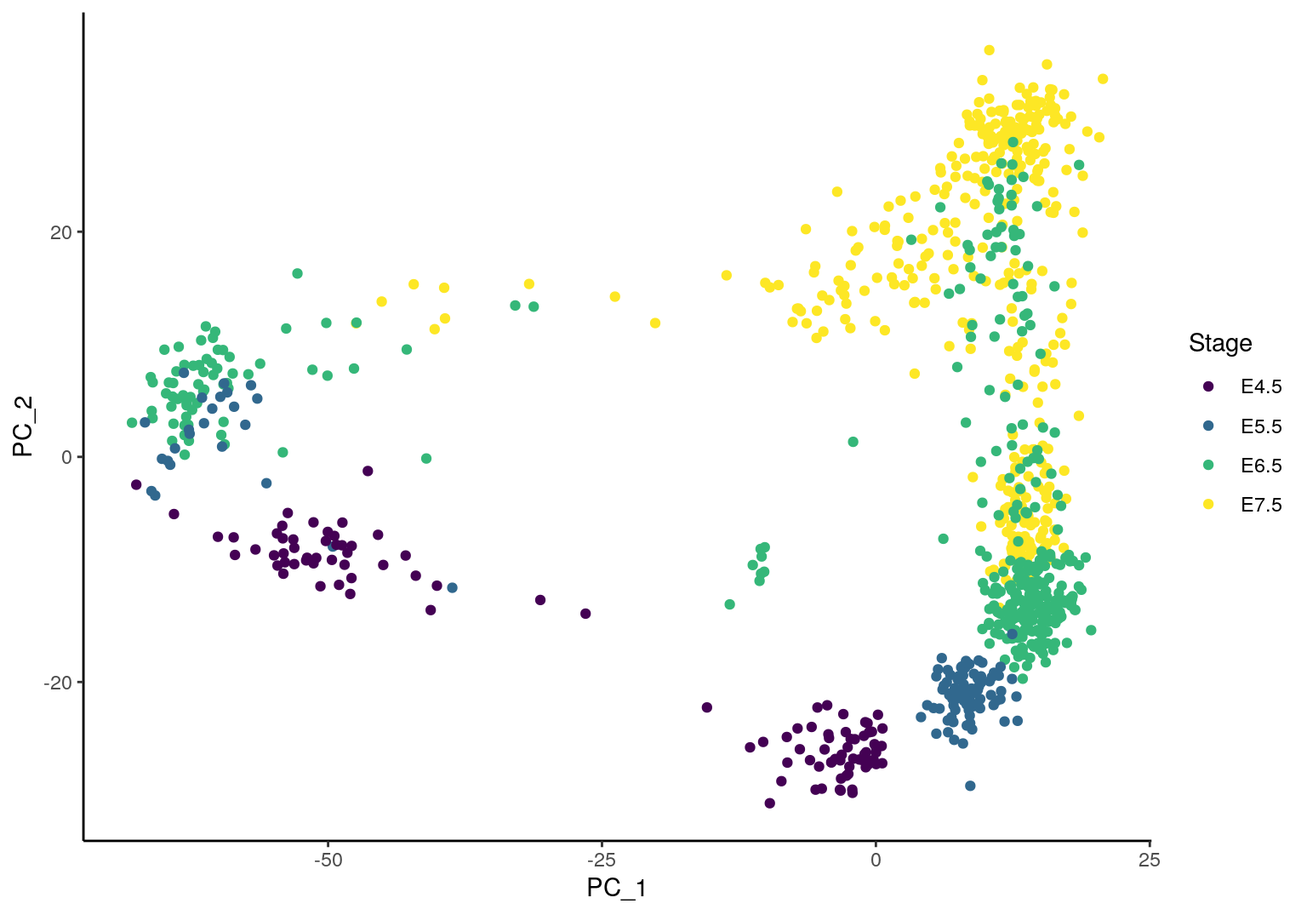
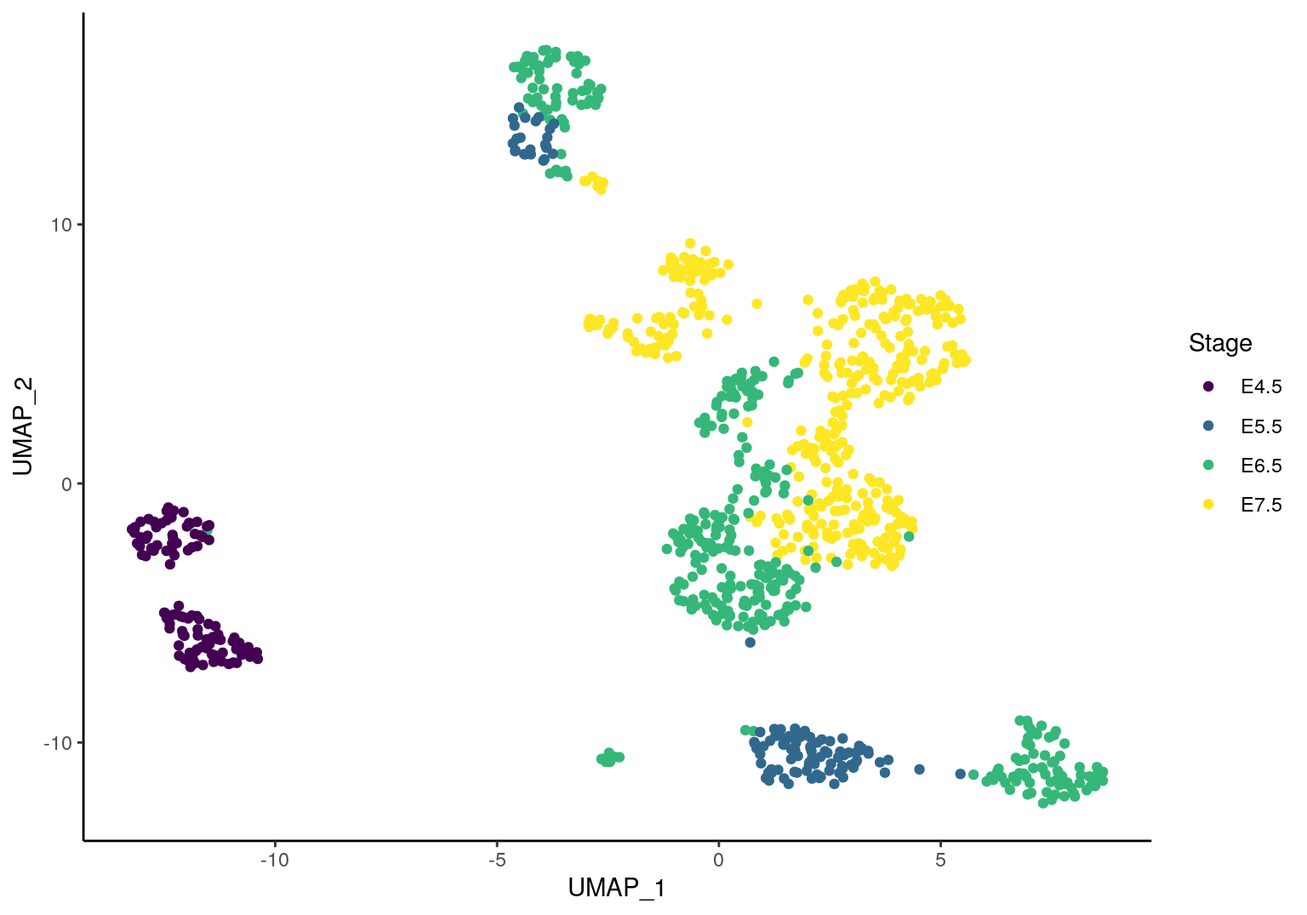
Deploying to gh-pages from  @ 05b11ada396dbc1e696d8c17546377e41f97edd3 🚀

diff --git a/articles/index.html b/articles/index.html
@@ -276,28 +276,25 @@
 <span class="no">stages</span> <span class="kw">&lt;-</span> <span class="fu"><a href="https://rdrr.io/r/base/c.html">c</a></span>(<span class="st">"E4.5"</span>, <span class="st">"E5.5"</span>, <span class="st">"E6.5"</span>, <span class="st">"E7.5"</span>)
 <span class="co"># col_palette &lt;- dput(viridisLite::viridis(n = length(stages)))</span>
 <span class="no">col_palette</span> <span class="kw">&lt;-</span> <span class="fu"><a href="https://rdrr.io/r/base/c.html">c</a></span>(<span class="st">"#440154FF"</span>, <span class="st">"#31688EFF"</span>, <span class="st">"#35B779FF"</span>, <span class="st">"#FDE725FF"</span>)
-<span class="fu"><a href="https://rdrr.io/r/base/names.html">names</a></span>(<span class="no">col_palette</span>) <span class="kw">&lt;-</span> <span class="no">stages</span></pre></body></html></div>
-<div class="sourceCode" id="cb11"><html><body><pre class="r"><span class="co">## helper function to create UMAP plots coloured by stage</span>
-<span class="no">plot_reducedDims</span> <span class="kw">&lt;-</span> <span class="kw">function</span>(<span class="no">sce</span>, <span class="no">reducedDim</span> <span class="kw">=</span> <span class="st">'UMAP'</span>,
-                             <span class="no">dims</span> <span class="kw">=</span> <span class="fu"><a href="https://rdrr.io/r/base/c.html">c</a></span>(<span class="fl">1</span>,<span class="fl">2</span>), <span class="no">col_palette</span>) {
-  <span class="no">comps.prefix</span> <span class="kw">&lt;-</span> <span class="fu"><a href="https://rdrr.io/r/base/ifelse.html">ifelse</a></span>(<span class="no">reducedDim</span> <span class="kw">==</span> <span class="st">'UMAP'</span>, <span class="st">'UMAP_'</span>, <span class="st">'PC_'</span>)
-  <span class="no">df</span> <span class="kw">&lt;-</span> <span class="fu"><a href="https://rdrr.io/r/base/data.frame.html">data.frame</a></span>(<span class="fu">reducedDim</span>(<span class="no">sce</span>, <span class="no">reducedDim</span>))[,<span class="no">dims</span>]
-  <span class="no">axes</span> <span class="kw">&lt;-</span> <span class="fu"><a href="https://rdrr.io/r/base/colnames.html">colnames</a></span>(<span class="no">df</span>) <span class="kw">&lt;-</span> <span class="fu"><a href="https://rdrr.io/r/base/paste.html">paste0</a></span>(<span class="no">comps.prefix</span>, <span class="no">dims</span>)
-  <span class="no">df</span>$<span class="no">stage</span> <span class="kw">&lt;-</span> <span class="no">sce</span>$<span class="no">stage</span>
+<span class="fu"><a href="https://rdrr.io/r/base/names.html">names</a></span>(<span class="no">col_palette</span>) <span class="kw">&lt;-</span> <span class="no">stages</span>
+
+<span class="co">## helper function to create UMAP plots coloured by stage</span>
+<span class="no">plot_umap_by_stage</span> <span class="kw">&lt;-</span> <span class="kw">function</span>(<span class="no">df</span>, <span class="no">dims</span> <span class="kw">=</span> <span class="fu"><a href="https://rdrr.io/r/base/c.html">c</a></span>(<span class="fl">1</span>,<span class="fl">2</span>)) {
+  <span class="no">axes</span> <span class="kw">&lt;-</span> <span class="fu"><a href="https://rdrr.io/r/base/paste.html">paste0</a></span>(<span class="st">'UMAP_'</span>, <span class="no">dims</span>)
   <span class="fu"><a href="https://ggplot2.tidyverse.org/reference/ggplot.html">ggplot</a></span>(<span class="no">df</span>, <span class="fu"><a href="https://ggplot2.tidyverse.org/reference/aes_.html">aes_string</a></span>(<span class="no">axes</span>[<span class="fl">1</span>], <span class="no">axes</span>[<span class="fl">2</span>])) + <span class="fu"><a href="https://ggplot2.tidyverse.org/reference/geom_point.html">geom_point</a></span>(<span class="fu"><a href="https://ggplot2.tidyverse.org/reference/aes.html">aes</a></span>(<span class="kw">col</span><span class="kw">=</span><span class="no">stage</span>)) +
     <span class="fu"><a href="https://ggplot2.tidyverse.org/reference/ggtheme.html">theme_classic</a></span>()+ <span class="fu"><a href="https://ggplot2.tidyverse.org/reference/scale_manual.html">scale_color_manual</a></span>(<span class="kw">values</span> <span class="kw">=</span> <span class="no">col_palette</span>) + <span class="fu"><a href="https://ggplot2.tidyverse.org/reference/labs.html">labs</a></span>(<span class="kw">col</span> <span class="kw">=</span> <span class="st">'Stage'</span>)
 }</pre></body></html></div>
-<div id="dimension-reduction-all-of-rna-cells" class="section level2">
+<div id="umap-projection-all-of-rna-cells" class="section level2">
 <h2 class="hasAnchor">
-<a href="#dimension-reduction-all-of-rna-cells" class="anchor"></a>Dimension reduction all of RNA cells</h2>
+<a href="#umap-projection-all-of-rna-cells" class="anchor"></a>UMAP projection all of RNA cells</h2>
 <p>Select highly variable genes after accounting for technical variation:</p>
-<div class="sourceCode" id="cb12"><html><body><pre class="r"><span class="no">decomp</span> <span class="kw">&lt;-</span> <span class="fu"><a href="https://rdrr.io/pkg/scran/man/modelGeneVar.html">modelGeneVar</a></span>(<span class="no">rna.sce</span>)
+<div class="sourceCode" id="cb11"><html><body><pre class="r"><span class="no">decomp</span> <span class="kw">&lt;-</span> <span class="fu"><a href="https://rdrr.io/pkg/scran/man/modelGeneVar.html">modelGeneVar</a></span>(<span class="no">rna.sce</span>)
 <span class="co">## filter by mean expression and significance of biological variation signal</span>
 <span class="no">hvgs</span> <span class="kw">&lt;-</span> <span class="fu"><a href="https://rdrr.io/r/base/colnames.html">rownames</a></span>(<span class="no">decomp</span>)[<span class="no">decomp</span>$<span class="no">p.value</span><span class="kw">&lt;</span><span class="fl">0.01</span> <span class="kw">&amp;</span> <span class="no">decomp</span>$<span class="no">mean</span> <span class="kw">&gt;</span> <span class="fl">0.01</span>]
 <span class="fu"><a href="https://rdrr.io/r/base/length.html">length</a></span>(<span class="no">hvgs</span>)
 <span class="co">#&gt; [1] 381</span></pre></body></html></div>
 <p>Run PCA and then UMAP using PCs:</p>
-<div class="sourceCode" id="cb13"><html><body><pre class="r"><span class="no">npcs</span> <span class="kw">&lt;-</span> <span class="fl">15</span>
+<div class="sourceCode" id="cb12"><html><body><pre class="r"><span class="no">npcs</span> <span class="kw">&lt;-</span> <span class="fl">15</span>
 <span class="co">## PCA first: retrieve npcs PCs</span>
 <span class="no">rna.sce</span> <span class="kw">&lt;-</span> <span class="fu"><a href="https://rdrr.io/pkg/scater/man/runPCA.html">runPCA</a></span>(<span class="no">rna.sce</span>,  <span class="kw">ncomponents</span> <span class="kw">=</span> <span class="no">npcs</span>, <span class="kw">subset_row</span><span class="kw">=</span><span class="no">hvgs</span>, <span class="kw">name</span> <span class="kw">=</span> <span class="st">'PCA'</span>)
 
@@ -311,34 +308,27 @@
                    <span class="kw">ncomponents</span> <span class="kw">=</span> <span class="no">params</span>$<span class="no">umap_params</span>[<span class="st">'n_components'</span>],
                    <span class="kw">n_neighbors</span> <span class="kw">=</span> <span class="no">params</span>$<span class="no">umap_params</span>[<span class="st">'n_neighbors'</span>],
                    <span class="kw">min_dist</span> <span class="kw">=</span> <span class="no">params</span>$<span class="no">umap_params</span>[<span class="st">'min_dist'</span>])</pre></body></html></div>
-<div id="pca" class="section level3">
-<h3 class="hasAnchor">
-<a href="#pca" class="anchor"></a>PCA</h3>
+<p>data.frame of embeddings with cell metadata:</p>
+<div class="sourceCode" id="cb13"><html><body><pre class="r"><span class="co"># data.frame of embeddings with cell metadata</span>
+<span class="no">df</span> <span class="kw">&lt;-</span>  <span class="fu"><a href="https://rdrr.io/r/base/data.frame.html">data.frame</a></span>(<span class="fu">reducedDim</span>(<span class="no">rna.sce</span>,<span class="st">"UMAP"</span>))
+<span class="fu"><a href="https://rdrr.io/r/base/colnames.html">colnames</a></span>(<span class="no">df</span>) <span class="kw">&lt;-</span> <span class="fu"><a href="https://rdrr.io/r/base/paste.html">paste0</a></span>(<span class="st">'UMAP_'</span>, <span class="fu"><a href="https://rdrr.io/r/base/seq.html">seq_along</a></span>(<span class="no">df</span>))
+<span class="no">df</span> <span class="kw">&lt;-</span> <span class="fu"><a href="https://rdrr.io/r/base/cbind.html">cbind</a></span>(<span class="no">df</span>, <span class="fu">colData</span>(<span class="no">rna.sce</span>))</pre></body></html></div>
 <p>Plot the first two UMAP components:</p>
-<div class="sourceCode" id="cb14"><html><body><pre class="r"><span class="fu">plot_reducedDims</span>(<span class="kw">sce</span> <span class="kw">=</span> <span class="no">rna.sce</span>, <span class="kw">reducedDim</span> <span class="kw">=</span> <span class="st">'PCA'</span>, <span class="kw">dims</span> <span class="kw">=</span> <span class="fu"><a href="https://rdrr.io/r/base/c.html">c</a></span>(<span class="fl">1</span>,<span class="fl">2</span>), <span class="kw">col_palette</span> <span class="kw">=</span> <span class="no">col_palette</span>)</pre></body></html></div>
+<div class="sourceCode" id="cb14"><html><body><pre class="r"><span class="fu">plot_umap_by_stage</span>(<span class="kw">df</span> <span class="kw">=</span> <span class="no">df</span>, <span class="kw">dims</span> <span class="kw">=</span> <span class="fu"><a href="https://rdrr.io/r/base/c.html">c</a></span>(<span class="fl">1</span>,<span class="fl">2</span>))</pre></body></html></div>
 <p><img src="index_files/figure-html/unnamed-chunk-18-1.png" width="768"></p>
-<p>First two PCs highlight the within-stage variation which could potentially correspond to different distinct cell lineages.</p>
+<p>UMAP plot shows distinct cell populations corresponding to early-stage, mid-stage, and late-stage cells as well as the within-stage variation for mainly E4.5 and E6.5 which could correspond to different lineages.</p>
 </div>
-<div id="umap" class="section level3">
-<h3 class="hasAnchor">
-<a href="#umap" class="anchor"></a>UMAP</h3>
-<p>Plot the first two UMAP components:</p>
-<div class="sourceCode" id="cb15"><html><body><pre class="r"><span class="fu">plot_reducedDims</span>(<span class="kw">sce</span> <span class="kw">=</span> <span class="no">rna.sce</span>, <span class="kw">reducedDim</span> <span class="kw">=</span> <span class="st">'UMAP'</span>, <span class="kw">dims</span> <span class="kw">=</span> <span class="fu"><a href="https://rdrr.io/r/base/c.html">c</a></span>(<span class="fl">1</span>,<span class="fl">2</span>), <span class="kw">col_palette</span> <span class="kw">=</span> <span class="no">col_palette</span>)</pre></body></html></div>
-<p><img src="index_files/figure-html/unnamed-chunk-19-1.png" width="768"></p>
-<p>UMAP plot separates the cell populations from early-stage, mid-stage, and late-stage cells and captures the the within-stage variation for early-stage and mid-stage cells.</p>
-</div>
-</div>
-<div id="dimension-reduction-of-all-matching-rna-cells-used-in-integration" class="section level2">
+<div id="umap-projection-all-matching-rna-cells-used-in-integration" class="section level2">
 <h2 class="hasAnchor">
-<a href="#dimension-reduction-of-all-matching-rna-cells-used-in-integration" class="anchor"></a>Dimension reduction of all matching RNA cells used in integration</h2>
+<a href="#umap-projection-all-matching-rna-cells-used-in-integration" class="anchor"></a>UMAP projection all matching RNA cells used in integration</h2>
 <p>Select highly variable genes after accounting for technical variation:</p>
-<div class="sourceCode" id="cb16"><html><body><pre class="r"><span class="no">decomp</span> <span class="kw">&lt;-</span> <span class="fu"><a href="https://rdrr.io/pkg/scran/man/modelGeneVar.html">modelGeneVar</a></span>(<span class="no">rna.sce.matching</span>)
+<div class="sourceCode" id="cb15"><html><body><pre class="r"><span class="no">decomp</span> <span class="kw">&lt;-</span> <span class="fu"><a href="https://rdrr.io/pkg/scran/man/modelGeneVar.html">modelGeneVar</a></span>(<span class="no">rna.sce.matching</span>)
 <span class="co">## filter by mean expression and significance of biological variation signal</span>
 <span class="no">hvgs</span> <span class="kw">&lt;-</span> <span class="fu"><a href="https://rdrr.io/r/base/colnames.html">rownames</a></span>(<span class="no">decomp</span>)[<span class="no">decomp</span>$<span class="no">p.value</span><span class="kw">&lt;</span><span class="fl">0.01</span> <span class="kw">&amp;</span> <span class="no">decomp</span>$<span class="no">mean</span> <span class="kw">&gt;</span> <span class="fl">0.01</span>]
 <span class="fu"><a href="https://rdrr.io/r/base/length.html">length</a></span>(<span class="no">hvgs</span>)
 <span class="co">#&gt; [1] 474</span></pre></body></html></div>
 <p>Run PCA and then UMAP using PCs:</p>
-<div class="sourceCode" id="cb17"><html><body><pre class="r"><span class="no">npcs</span> <span class="kw">&lt;-</span> <span class="fl">15</span>
+<div class="sourceCode" id="cb16"><html><body><pre class="r"><span class="no">npcs</span> <span class="kw">&lt;-</span> <span class="fl">15</span>
 <span class="co">## PCA first: retrieve npcs PCs</span>
 <span class="no">rna.sce.matching</span> <span class="kw">&lt;-</span> <span class="fu"><a href="https://rdrr.io/pkg/scater/man/runPCA.html">runPCA</a></span>(<span class="no">rna.sce.matching</span>, <span class="kw">ncomponents</span> <span class="kw">=</span> <span class="no">npcs</span>, <span class="kw">subset_row</span><span class="kw">=</span><span class="no">hvgs</span>, <span class="kw">name</span> <span class="kw">=</span> <span class="st">'PCA'</span>)
 
@@ -351,22 +341,15 @@
 <span class="no">rna.sce.matching</span> <span class="kw">&lt;-</span> <span class="fu"><a href="https://rdrr.io/pkg/scater/man/runUMAP.html">runUMAP</a></span>(<span class="no">rna.sce.matching</span>, <span class="kw">dimred</span><span class="kw">=</span><span class="st">"PCA"</span>,
                    <span class="kw">ncomponents</span> <span class="kw">=</span> <span class="no">params</span>$<span class="no">umap_params</span>[<span class="st">'n_components'</span>],
                    <span class="kw">n_neighbors</span> <span class="kw">=</span> <span class="no">params</span>$<span class="no">umap_params</span>[<span class="st">'n_neighbors'</span>],
-                   <span class="kw">min_dist</span> <span class="kw">=</span> <span class="fl">0.35</span>)</pre></body></html></div>
-<div id="pca-1" class="section level3">
-<h3 class="hasAnchor">
-<a href="#pca-1" class="anchor"></a>PCA</h3>
+                   <span class="kw">min_dist</span> <span class="kw">=</span> <span class="no">params</span>$<span class="no">umap_params</span>[<span class="st">'min_dist'</span>])</pre></body></html></div>
+<p>data.frame of embeddings with cell metadata:</p>
+<div class="sourceCode" id="cb17"><html><body><pre class="r"><span class="co"># data.frame of embeddings with cell metadata</span>
+<span class="no">df.matching</span> <span class="kw">&lt;-</span>  <span class="fu"><a href="https://rdrr.io/r/base/data.frame.html">data.frame</a></span>(<span class="fu">reducedDim</span>(<span class="no">rna.sce.matching</span>,<span class="st">"UMAP"</span>))
+<span class="fu"><a href="https://rdrr.io/r/base/colnames.html">colnames</a></span>(<span class="no">df.matching</span>) <span class="kw">&lt;-</span> <span class="fu"><a href="https://rdrr.io/r/base/paste.html">paste0</a></span>(<span class="st">'UMAP_'</span>, <span class="fu"><a href="https://rdrr.io/r/base/seq.html">seq_along</a></span>(<span class="no">df.matching</span>))
+<span class="no">df.matching</span> <span class="kw">&lt;-</span> <span class="fu"><a href="https://rdrr.io/r/base/cbind.html">cbind</a></span>(<span class="no">df.matching</span>, <span class="fu">colData</span>(<span class="no">rna.sce.matching</span>))</pre></body></html></div>
 <p>Plot the first two UMAP components:</p>
-<div class="sourceCode" id="cb18"><html><body><pre class="r"><span class="fu">plot_reducedDims</span>(<span class="kw">sce</span> <span class="kw">=</span> <span class="no">rna.sce.matching</span>, <span class="kw">reducedDim</span> <span class="kw">=</span> <span class="st">'PCA'</span>, <span class="kw">dims</span> <span class="kw">=</span> <span class="fu"><a href="https://rdrr.io/r/base/c.html">c</a></span>(<span class="fl">1</span>,<span class="fl">2</span>), <span class="kw">col_palette</span> <span class="kw">=</span> <span class="no">col_palette</span>)</pre></body></html></div>
+<div class="sourceCode" id="cb18"><html><body><pre class="r"><span class="fu">plot_umap_by_stage</span>(<span class="kw">df</span> <span class="kw">=</span> <span class="no">df.matching</span>, <span class="kw">dims</span> <span class="kw">=</span> <span class="fu"><a href="https://rdrr.io/r/base/c.html">c</a></span>(<span class="fl">1</span>,<span class="fl">2</span>))</pre></body></html></div>
 <p><img src="index_files/figure-html/unnamed-chunk-22-1.png" width="768"></p>
-</div>
-<div id="umap-1" class="section level3">
-<h3 class="hasAnchor">
-<a href="#umap-1" class="anchor"></a>UMAP</h3>
-<p>Plot the first two UMAP components:</p>
-<div class="sourceCode" id="cb19"><html><body><pre class="r"><span class="fu">plot_reducedDims</span>(<span class="kw">sce</span> <span class="kw">=</span> <span class="no">rna.sce.matching</span>, <span class="kw">reducedDim</span> <span class="kw">=</span> <span class="st">'UMAP'</span>, <span class="kw">dims</span> <span class="kw">=</span> <span class="fu"><a href="https://rdrr.io/r/base/c.html">c</a></span>(<span class="fl">1</span>,<span class="fl">2</span>), <span class="kw">col_palette</span> <span class="kw">=</span> <span class="no">col_palette</span>)</pre></body></html></div>
-<p><img src="index_files/figure-html/unnamed-chunk-23-1.png" width="768"></p>
-<p>Similar results to the analysis with all cells.</p>
-</div>
 </div>
 </div>
 <div id="integration" class="section level1">
@@ -400,7 +383,7 @@
 <h2 class="hasAnchor">
 <a href="#pls" class="anchor"></a>PLS</h2>
 <p>data dimensions overview:</p>
-<div class="sourceCode" id="cb20"><html><body><pre class="r"><span class="co"># data dimensions</span>
+<div class="sourceCode" id="cb19"><html><body><pre class="r"><span class="co"># data dimensions</span>
 <span class="fu"><a href="https://rdrr.io/r/base/lapply.html">lapply</a></span>(<span class="fu"><a href="https://rdrr.io/pkg/MultiAssayExperiment/man/MultiAssayExperiment-methods.html">experiments</a></span>(<span class="no">gastru.mae</span>), <span class="no">dim</span>)
 <span class="co">#&gt; $rna</span>
 <span class="co">#&gt; [1] 18345   942</span>
@@ -417,7 +400,7 @@
 <span class="co">#&gt; $met_DHS</span>
 <span class="co">#&gt; [1] 6673  942</span></pre></body></html></div>
 <p>integration of all modalities with feature selection:</p>
-<div class="sourceCode" id="cb21"><html><body><pre class="r"><span class="co">## number of components</span>
+<div class="sourceCode" id="cb20"><html><body><pre class="r"><span class="co">## number of components</span>
 <span class="no">ncomp</span> <span class="kw">&lt;-</span> <span class="fl">2</span>
 <span class="co">## feature scaling</span>
 <span class="no">scale</span> <span class="kw">&lt;-</span> <span class="fl">TRUE</span></pre></body></html></div>
@@ -425,7 +408,7 @@
 <!-- pls_output_name <- sprintf('multimodal_spls-ncomp_%s-scale_.rds', ncomp, scale) -->
 <!-- ``` -->
 <p>Here we select for 50 features on each component in <code>multimodal_sPLS_wrapper</code>:</p>
-<div class="sourceCode" id="cb22"><html><body><pre class="r"><span class="fu"><a href="https://rdrr.io/r/base/cat.html">cat</a></span>(<span class="fu"><a href="https://rdrr.io/r/base/sprintf.html">sprintf</a></span>(<span class="st">'Running PLS with %s components performing variable selection\n'</span>, <span class="no">ncomp</span>))
+<div class="sourceCode" id="cb21"><html><body><pre class="r"><span class="fu"><a href="https://rdrr.io/r/base/cat.html">cat</a></span>(<span class="fu"><a href="https://rdrr.io/r/base/sprintf.html">sprintf</a></span>(<span class="st">'Running PLS with %s components performing variable selection\n'</span>, <span class="no">ncomp</span>))
 <span class="co">#&gt; Running PLS with 2 components performing variable selection</span>
 <span class="no">st</span> <span class="kw">&lt;-</span> <span class="fu"><a href="https://rdrr.io/r/base/system.time.html">system.time</a></span>({
   <span class="no">mmspls</span> <span class="kw">&lt;-</span>
@@ -438,8 +421,8 @@
 
 <span class="fu"><a href="https://rdrr.io/r/base/cat.html">cat</a></span>(<span class="st">'\nPLS run finished. Runtime: '</span>, <span class="fu">format_runtime</span>(<span class="no">st</span>), <span class="st">'\n'</span>)
 <span class="co">#&gt; </span>
-<span class="co">#&gt; PLS run finished. Runtime:  00:02:16</span></pre></body></html></div>
-<div class="sourceCode" id="cb23"><html><body><pre class="r"><span class="no">plotIndiv_wrapper</span> <span class="kw">&lt;-</span> <span class="kw">function</span>(<span class="no">pls_obj</span>, <span class="no">coldata</span>, <span class="no">col_cell</span> <span class="kw">=</span> <span class="st">'stage'</span>, <span class="no">legend.title</span> <span class="kw">=</span> <span class="st">'Stage'</span>, <span class="no">comp</span> <span class="kw">=</span> <span class="fu"><a href="https://rdrr.io/r/base/c.html">c</a></span>(<span class="fl">1</span>,<span class="fl">2</span>), <span class="no">...</span>) {
+<span class="co">#&gt; PLS run finished. Runtime:  00:01:58</span></pre></body></html></div>
+<div class="sourceCode" id="cb22"><html><body><pre class="r"><span class="no">plotIndiv_wrapper</span> <span class="kw">&lt;-</span> <span class="kw">function</span>(<span class="no">pls_obj</span>, <span class="no">coldata</span>, <span class="no">col_cell</span> <span class="kw">=</span> <span class="st">'stage'</span>, <span class="no">legend.title</span> <span class="kw">=</span> <span class="st">'Stage'</span>, <span class="no">comp</span> <span class="kw">=</span> <span class="fu"><a href="https://rdrr.io/r/base/c.html">c</a></span>(<span class="fl">1</span>,<span class="fl">2</span>), <span class="no">...</span>) {
   <span class="co">## order coldata cells based on matching cells in pls modalities</span>
   <span class="no">coldata</span> <span class="kw">&lt;-</span> <span class="no">coldata</span>[<span class="fu"><a href="https://rdrr.io/r/base/colnames.html">rownames</a></span>(<span class="no">pls_obj</span>$<span class="no">X</span><span class="kw">[[</span><span class="fl">1</span>]]),]
   <span class="no">cell_class</span> <span class="kw">&lt;-</span> <span class="no">coldata</span>[,<span class="no">col_cell</span>]  <span class="co">## col factor for cells</span>
@@ -452,18 +435,18 @@
 <div id="score-plots" class="section level2">
 <h2 class="hasAnchor">
 <a href="#score-plots" class="anchor"></a>score plots</h2>
-<div class="sourceCode" id="cb24"><html><body><pre class="r"><span class="co">## create a data.frame from cell metadata</span>
+<div class="sourceCode" id="cb23"><html><body><pre class="r"><span class="co">## create a data.frame from cell metadata</span>
 <span class="no">coldata</span> <span class="kw">&lt;-</span> <span class="fu"><a href="https://rdrr.io/r/base/data.frame.html">data.frame</a></span>(<span class="fu">colData</span>(<span class="no">gastru.mae</span>))</pre></body></html></div>
 <p>Colored by stage:</p>
-<div class="sourceCode" id="cb25"><html><body><pre class="r"><span class="fu">plotIndiv_wrapper</span>(<span class="kw">pls_obj</span> <span class="kw">=</span> <span class="no">mmspls</span>, <span class="kw">coldata</span> <span class="kw">=</span> <span class="no">coldata</span>, <span class="kw">col_cell</span> <span class="kw">=</span> <span class="st">'stage'</span>, <span class="kw">legend.title</span> <span class="kw">=</span> <span class="st">'Stage'</span>, <span class="kw">comp</span> <span class="kw">=</span> <span class="fu"><a href="https://rdrr.io/r/base/c.html">c</a></span>(<span class="fl">1</span>,<span class="fl">2</span>), <span class="kw">subtitle</span> <span class="kw">=</span> <span class="fu"><a href="https://rdrr.io/r/base/names.html">names</a></span>(<span class="no">mmspls</span>$<span class="no">X</span>), <span class="kw">col.per.group</span> <span class="kw">=</span> <span class="no">col_palette</span>)</pre></body></html></div>
-<p><img src="index_files/figure-html/unnamed-chunk-30-1.png" width="768"></p>
+<div class="sourceCode" id="cb24"><html><body><pre class="r"><span class="fu">plotIndiv_wrapper</span>(<span class="kw">pls_obj</span> <span class="kw">=</span> <span class="no">mmspls</span>, <span class="kw">coldata</span> <span class="kw">=</span> <span class="no">coldata</span>, <span class="kw">col_cell</span> <span class="kw">=</span> <span class="st">'stage'</span>, <span class="kw">legend.title</span> <span class="kw">=</span> <span class="st">'Stage'</span>, <span class="kw">comp</span> <span class="kw">=</span> <span class="fu"><a href="https://rdrr.io/r/base/c.html">c</a></span>(<span class="fl">1</span>,<span class="fl">2</span>), <span class="kw">subtitle</span> <span class="kw">=</span> <span class="fu"><a href="https://rdrr.io/r/base/names.html">names</a></span>(<span class="no">mmspls</span>$<span class="no">X</span>), <span class="kw">col.per.group</span> <span class="kw">=</span> <span class="no">col_palette</span>)</pre></body></html></div>
+<p><img src="index_files/figure-html/unnamed-chunk-29-1.png" width="768"></p>
 </div>
 </div>
 <div id="concordance-with-rna" class="section level1">
 <h1 class="hasAnchor">
 <a href="#concordance-with-rna" class="anchor"></a>concordance with RNA</h1>
 <p>Here we calculate the correlations between components from gene expression and different methylome modalities:</p>
-<div class="sourceCode" id="cb26"><html><body><pre class="r"><span class="co">## For a pls object which includes pls cell embeddings from a computed latent space</span>
+<div class="sourceCode" id="cb25"><html><body><pre class="r"><span class="co">## For a pls object which includes pls cell embeddings from a computed latent space</span>
 <span class="co">## where covariance with rna is maximal, calculate the correlation b/w rna embeddings</span>
 <span class="co">## and those of a given modality's (per component and average) as a measure of concordant variation with rna</span>
 <span class="no">concordance</span> <span class="kw">&lt;-</span> <span class="kw">function</span>(<span class="no">pls_obj</span>, <span class="no">comp</span> <span class="kw">=</span> <span class="fl">1</span>) {
@@ -494,7 +477,7 @@
   <span class="fu"><a href="https://ggplot2.tidyverse.org/reference/ggplot.html">ggplot</a></span>(<span class="no">cor_with_y</span>, <span class="fu"><a href="https://ggplot2.tidyverse.org/reference/aes.html">aes</a></span>(<span class="kw">x</span> <span class="kw">=</span> <span class="no">Modality</span>, <span class="kw">y</span> <span class="kw">=</span> <span class="no">Concordance</span>)) + <span class="fu"><a href="https://ggplot2.tidyverse.org/reference/geom_bar.html">geom_col</a></span>(<span class="fu"><a href="https://ggplot2.tidyverse.org/reference/aes.html">aes</a></span>(<span class="kw">fill</span> <span class="kw">=</span> <span class="no">Component</span>), <span class="kw">position</span> <span class="kw">=</span> <span class="st">'dodge2'</span>) + <span class="fu"><a href="https://ggplot2.tidyverse.org/reference/ggtheme.html">theme_classic</a></span>() +
     <span class="fu"><a href="https://ggplot2.tidyverse.org/reference/labs.html">labs</a></span>(<span class="kw">y</span> <span class="kw">=</span> <span class="fu"><a href="https://rdrr.io/r/base/sprintf.html">sprintf</a></span>(<span class="st">'Correlation with RNA (comp %s) '</span>, <span class="fu"><a href="https://rdrr.io/r/base/paste.html">paste</a></span>(<span class="no">comp</span>, <span class="kw">collapse</span> <span class="kw">=</span> <span class="st">', '</span>)), <span class="kw">x</span> <span class="kw">=</span> <span class="st">''</span>, <span class="kw">fill</span> <span class="kw">=</span> <span class="st">''</span>) + <span class="fu"><a href="https://ggplot2.tidyverse.org/reference/lims.html">ylim</a></span>(<span class="fu"><a href="https://rdrr.io/r/base/c.html">c</a></span>(<span class="fl">0</span>, <span class="fl">1</span>)) + <span class="fu"><a href="https://ggplot2.tidyverse.org/reference/theme.html">theme</a></span>(<span class="kw">axis.text.x</span> <span class="kw">=</span> <span class="fu"><a href="https://ggplot2.tidyverse.org/reference/element.html">element_text</a></span>(<span class="kw">angle</span> <span class="kw">=</span> <span class="fl">45</span>, <span class="kw">vjust</span> <span class="kw">=</span> <span class="fl">0.8</span>, <span class="kw">hjust</span><span class="kw">=</span><span class="fl">1</span>))
 }</pre></body></html></div>
-<div class="sourceCode" id="cb27"><html><body><pre class="r"><span class="fu">concordance</span>(<span class="kw">pls_obj</span> <span class="kw">=</span> <span class="no">mmspls</span>, <span class="kw">comp</span> <span class="kw">=</span> <span class="fu"><a href="https://rdrr.io/r/base/c.html">c</a></span>(<span class="fl">1</span>, <span class="fl">2</span>))
+<div class="sourceCode" id="cb26"><html><body><pre class="r"><span class="fu">concordance</span>(<span class="kw">pls_obj</span> <span class="kw">=</span> <span class="no">mmspls</span>, <span class="kw">comp</span> <span class="kw">=</span> <span class="fu"><a href="https://rdrr.io/r/base/c.html">c</a></span>(<span class="fl">1</span>, <span class="fl">2</span>))
 <span class="co">#&gt; </span>
 <span class="co">#&gt; </span>
 <span class="co">#&gt; |            | met_genebody| met_promoter| met_cgi| met_DHS|</span>
@@ -502,7 +485,7 @@
 <span class="co">#&gt; |Component 1 |         0.96|         0.91|    0.88|    0.90|</span>
 <span class="co">#&gt; |Component 2 |         0.81|         0.75|    0.75|    0.76|</span>
 <span class="co">#&gt; |mean        |         0.88|         0.83|    0.82|    0.83|</span></pre></body></html></div>
-<p><img src="index_files/figure-html/unnamed-chunk-33-1.png" width="768"></p>
+<p><img src="index_files/figure-html/unnamed-chunk-32-1.png" width="768"></p>
 </div>
 <div class="footnotes">
 <hr>
